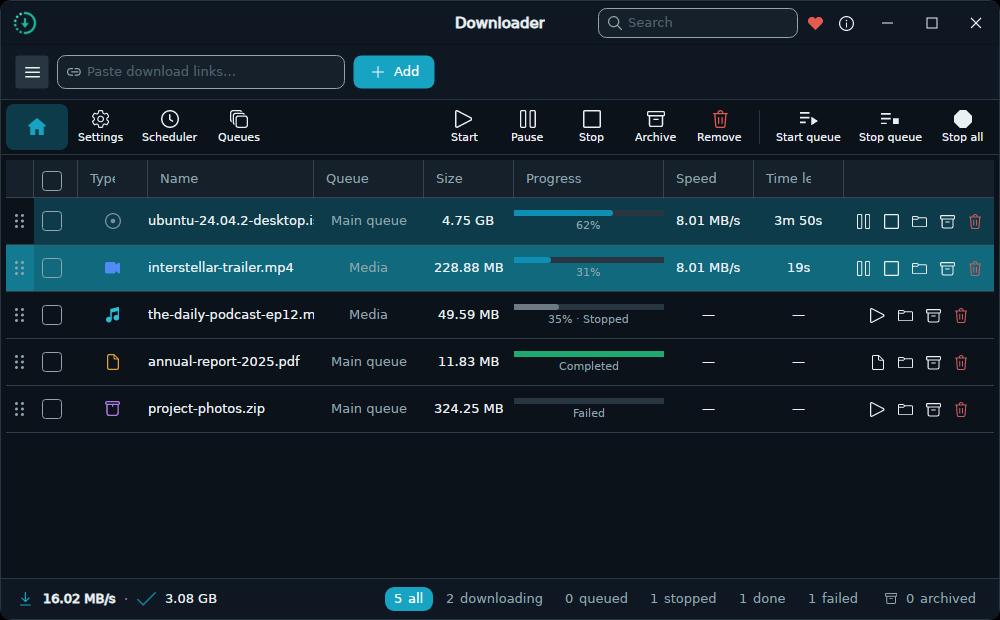
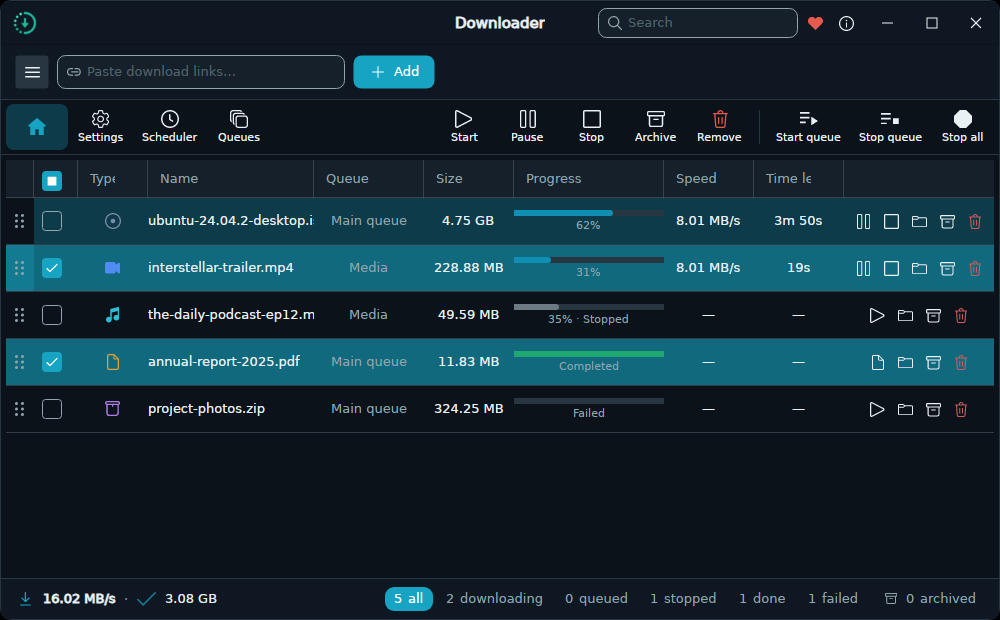
Row checkbox follows the grid selection (checkbox-follows-selection)
One selection state: grid click/Ctrl/Shift selection sets the checkboxes,
and a checkbox or select-all change updates the grid selection. Bulk
actions act on the checked visible rows; the separate grid-selection
list is removed. 6 new UI tests; screenshot shows two selected rows.

Claude-Session: https://claude.ai/code/session_012cPyH66pLd8XMmK513xxnp

Changed region(s): [[0.0, 0.521, 1.0, 0.6435], [0.031, 0.3984, 0.062, 0.4597], [0.031, 0.2758, 0.062, 0.3065]]

diff --git a/src/Downloader.Desktop.Tests/UI/DownloadsSelectionSyncTests.cs b/src/Downloader.Desktop.Tests/UI/DownloadsSelectionSyncTests.cs
@@ -1,0 +1,136 @@
+using System.Linq;
+using Avalonia.Controls;
+using Avalonia.Headless.XUnit;
+using Avalonia.VisualTree;
+using Downloader.Desktop.Models;
+using Downloader.Desktop.Services;
+using Downloader.Desktop.ViewModels;
+using Downloader.Desktop.Views;
+using Xunit;
+
+namespace Downloader.Desktop.Tests.UI;
+
+/// <summary>
+/// A row's checkbox IS its selection: the grid's selection (click / Ctrl+click / Shift+click) sets the
+/// checkboxes, and a checkbox or select-all change updates the grid. Headless cannot produce a real
+/// row click, so the grid's SelectedItem/SelectedItems stand in for the mouse.
+/// </summary>
+public class DownloadsSelectionSyncTests
+{
+    private static (DownloadManager manager, DownloadsViewModel page, DataGrid grid, DownloadItemViewModel[] rows) Host()
+    {
+        Localizer.Instance.Load("en");
+        var config = Config.New();
+        var manager = new DownloadManager();
+        manager.Initialize(config);
+        config.DefaultQueue.IsRunning = false;
+        var rows = new[] { "a.bin", "b.bin", "c.bin" }.Select(n =>
+        {
+            var vm = manager.Add(new DownloadItem { Url = "https://10.255.255.1/" + n, FileName = n }, autoStart: false);
+            vm.Status = DownloadStatus.Running;
+            return vm;
+        }).ToArray();
+        var page = new DownloadsViewModel(manager);
+        var view = new DownloadsView { DataContext = page };
+        new Window { Content = view, Width = 1100, Height = 600 }.Show();
+        DesktopLifetimeScope.Pump(8);
+        return (manager, page, view.GetVisualDescendants().OfType<DataGrid>().First(), rows);
+    }
+
+    [AvaloniaFact(Timeout = TestTimeouts.DefaultMs)]
+    public void Selecting_another_row_unchecks_the_previous_one()
+    {
+        var (_, _, grid, r) = Host();
+        r[0].IsChecked = true;
+
+        grid.SelectedItem = r[1]; // a plain click on B
+
+        Assert.False(r[0].IsChecked);
+        Assert.True(r[1].IsChecked);
+        Assert.Equal(new object[] { r[1] }, grid.SelectedItems.Cast<object>());
+    }
+
+    [AvaloniaFact(Timeout = TestTimeouts.DefaultMs)]
+    public void Adding_a_row_to_the_selection_keeps_both_checked()
+    {
+        var (_, _, grid, r) = Host();
+        grid.SelectedItem = r[0];
+
+        grid.SelectedItems.Add(r[1]); // Ctrl+click on B
+
+        Assert.True(r[0].IsChecked);
+        Assert.True(r[1].IsChecked);
+        Assert.False(r[2].IsChecked);
+    }
+
+    [AvaloniaFact(Timeout = TestTimeouts.DefaultMs)]
+    public void Checking_a_checkbox_adds_the_row_without_removing_others()
+    {
+        var (_, _, grid, r) = Host();
+        grid.SelectedItem = r[0];
+
+        r[1].IsChecked = true;
+
+        Assert.Contains(r[0], grid.SelectedItems.Cast<object>());
+        Assert.Contains(r[1], grid.SelectedItems.Cast<object>());
+        Assert.True(r[0].IsChecked);
+
+        r[1].IsChecked = false;
+        Assert.DoesNotContain(r[1], grid.SelectedItems.Cast<object>());
+        Assert.Contains(r[0], grid.SelectedItems.Cast<object>());
+    }
+
+    [AvaloniaFact(Timeout = TestTimeouts.DefaultMs)]
+    public void Select_all_selects_every_visible_row_and_clearing_empties_it()
+    {
+        var (_, page, grid, r) = Host();
+
+        page.SelectAllState = true;
+        Assert.Equal(3, grid.SelectedItems.Count);
+
+        page.SelectAllState = false;
+        Assert.Empty(grid.SelectedItems);
+        Assert.All(r, i => Assert.False(i.IsChecked));
+    }
+
+    [AvaloniaFact(Timeout = TestTimeouts.DefaultMs)]
+    public void A_filter_that_hides_a_selected_row_unselects_it_and_pause_touches_only_checked_rows()
+    {
+        var (_, page, grid, r) = Host();
+        grid.SelectedItem = r[0];
+        grid.SelectedItems.Add(r[1]);
+
+        r[1].Status = DownloadStatus.Failed;
+        page.Filter = StatusFilter.Active; // hides B
+        DesktopLifetimeScope.Pump();
+        page.Filter = StatusFilter.All;
+        DesktopLifetimeScope.Pump();
+
+        Assert.True(r[0].IsChecked);
+        Assert.False(r[1].IsChecked);
+
+        page.PauseSelectedCommand.Execute(null);
+        Assert.Equal(DownloadStatus.Paused, r[0].Status);
+        Assert.Equal(DownloadStatus.Running, r[2].Status);
+    }
+
+    [AvaloniaFact(Timeout = TestTimeouts.DefaultMs)]
+    public void Sorting_and_reordering_keep_the_selection_and_checkboxes_equal()
+    {
+        var (_, page, grid, r) = Host();
+        grid.SelectedItem = r[0];
+        grid.SelectedItems.Add(r[2]);
+
+        page.CycleSort("FileName");
+        DesktopLifetimeScope.Pump();
+        page.CycleSort("FileName");
+        DesktopLifetimeScope.Pump();
+        Assert.True(r[0].IsChecked);
+        Assert.True(r[2].IsChecked);
+
+        page.Reorder(r[0], r[2], placeAfter: true);
+        DesktopLifetimeScope.Pump();
+        var selected = grid.SelectedItems.Cast<DownloadItemViewModel>().ToHashSet();
+        Assert.All(r, i => Assert.Equal(i.IsChecked, selected.Contains(i)));
+    }
+}

diff --git a/src/Downloader.Desktop/Views/DownloadsView.axaml.cs b/src/Downloader.Desktop/Views/DownloadsView.axaml.cs
@@ -23,6 +23,7 @@ public partial class DownloadsView : UserControl
     private double _ghostLeft;
     private double _ghostGrabY;
     private bool _dragging;
+    private bool _syncing; // stops the checkbox <-> grid-selection sync from looping
 
     public DownloadsView()
     {
@@ -54,6 +55,8 @@ public partial class DownloadsView : UserControl
         {
             if (e.PropertyName == nameof(DownloadsViewModel.ShowQueue))
                 FitColumns();
+            else if (e.PropertyName == nameof(DownloadsViewModel.SelectAllState))
+                SyncGridFromChecks();
         };
     }
 
@@ -81,11 +84,34 @@ public partial class DownloadsView : UserControl
     private static double WidthOf(DataGridColumn column) =>
         column.Width.IsAbsolute ? column.Width.Value : column.MinWidth;
 
+    // The row checkbox IS the row's selection. The grid gives us click / Ctrl+click / Shift+click;
+    // its changes set the checkboxes, and a checkbox (or select-all) change updates the grid.
+
     private void OnSelectionChanged(object sender, SelectionChangedEventArgs e)
     {
-        // A highlighted row counts as "selected" for the toolbar, even when its checkbox is unchecked.
-        if (sender is DataGrid grid && DataContext is DownloadsViewModel vm)
-            vm.SetGridSelection(grid.SelectedItems);
+        if (_syncing)
+            return;
+        _syncing = true;
+        foreach (var item in e.RemovedItems.OfType<DownloadItemViewModel>())
+            item.IsChecked = false;
+        foreach (var item in e.AddedItems.OfType<DownloadItemViewModel>())
+            item.IsChecked = true;
+        _syncing = false;
+    }
+
+    /// <summary>Makes the grid's selection equal the checked rows, without touching the others.</summary>
+    private void SyncGridFromChecks()
+    {
+        if (_syncing || Root.ItemsSource is null)
+            return;
+        _syncing = true;
+        var selected = Root.SelectedItems;
+        foreach (var item in selected.OfType<DownloadItemViewModel>().Where(i => !i.IsChecked).ToList())
+            selected.Remove(item);
+        foreach (var item in Root.ItemsSource.OfType<DownloadItemViewModel>())
+            if (item.IsChecked && !selected.Contains(item))
+                selected.Add(item);
+        _syncing = false;
     }
 
     // --- Drag-to-reorder (grip handle in the first column) ---

diff --git a/src/Downloader.Desktop/ViewModels/DownloadsViewModel.cs b/src/Downloader.Desktop/ViewModels/DownloadsViewModel.cs
@@ -167,23 +167,8 @@ public class DownloadsViewModel : ViewModelBase
     /// <summary>Menu entries for "Stop queue ▾" — one per queue, each stopping all its items.</summary>
     public ObservableCollection<QueueActionTarget> StopQueueTargets { get; } = new();
 
-    // Rows highlighted in the DataGrid (independent of the checkboxes). Pushed in from the view's
-    // SelectionChanged so that simply selecting a row also counts as "selected" for the toolbar.
-    private readonly System.Collections.Generic.List<DownloadItemViewModel> _gridSelection = new();
-
-    /// <summary>Called by the view when the DataGrid's highlighted rows change.</summary>
-    public void SetGridSelection(System.Collections.IList items)
-    {
-        _gridSelection.Clear();
-        if (items != null)
-            foreach (var it in items)
-                if (it is DownloadItemViewModel vm)
-                    _gridSelection.Add(vm);
-        RaiseSelectionChanged();
-    }
-
     /// <summary>
-    /// The rows the toolbar acts on: checked or DataGrid-highlighted rows that are ALSO visible under
+    /// The rows the toolbar acts on: checked rows (the view keeps checkboxes and grid selection equal) that are ALSO visible under
     /// the active filters. The visibility clause matters — a filter can hide a row the user checked
     /// earlier, and removing or stopping a download nobody can see is the kind of surprise a Remove
     /// button must never spring.
@@ -191,9 +176,9 @@ public class DownloadsViewModel : ViewModelBase
     private System.Collections.Generic.List<DownloadItemViewModel> SelectedTargets() =>
         _manager == null
             ? new System.Collections.Generic.List<DownloadItemViewModel>()
-            : _manager.Items.Where(i => (i.IsChecked || _gridSelection.Contains(i)) && PassesView(i)).ToList();
+            : _manager.Items.Where(i => i.IsChecked && PassesView(i)).ToList();
 
-    /// <summary>True while at least one row is checked OR highlighted — drives the bulk buttons' enabled state.</summary>
+    /// <summary>True while at least one visible row is checked — drives the bulk buttons' enabled state.</summary>
     public bool HasSelection => SelectedTargets().Count > 0;
 
     /// <summary>

diff --git a/src/Downloader.Desktop.Tests/UI/PageViewModelTests.cs b/src/Downloader.Desktop.Tests/UI/PageViewModelTests.cs
@@ -17,8 +17,8 @@ namespace Downloader.Desktop.Tests.UI;
 /// setting overwrites the cap on next launch), and the Run/Pause switch must go through the manager's
 /// StartQueue/PauseQueue rather than flipping the flag directly.
 ///
-/// The Downloads page's bulk actions act on checked rows PLUS DataGrid-highlighted rows, which is why
-/// the grid-selection seam is exercised rather than only the checkboxes.
+/// The Downloads page's bulk actions act on the checked rows; the view keeps the grid selection equal
+/// to them (see DownloadsSelectionSyncTests).
 /// </summary>
 public class PageViewModelTests
 {
@@ -216,22 +216,6 @@ public class PageViewModelTests
 
         Assert.False(page.HasSelection);
         Assert.Equal(false, page.SelectAllState);
-    }
-
-    [AvaloniaFact(Timeout = TestTimeouts.DefaultMs)]
-    public void Highlighting_a_row_in_the_grid_counts_as_selecting_it()
-    {
-        var (manager, config) = Build();
-        var a = Add(manager, "a.bin", DownloadStatus.Running);
-        var page = new DownloadsViewModel(manager);
-
-        // A plain click highlights without checking the box; the toolbar must still act on it.
-        page.SetGridSelection(new[] { a });
-
-        Assert.True(page.HasSelection);
-
-        page.SetGridSelection(null);
-        Assert.False(page.HasSelection);
     }
 
     [AvaloniaFact(Timeout = TestTimeouts.DefaultMs)]

diff --git a/src/Downloader.Desktop.Tests/UI/AppTests.cs b/src/Downloader.Desktop.Tests/UI/AppTests.cs
@@ -1728,26 +1728,6 @@ public class AppTests
     }
 
     [AvaloniaFact(Timeout = TestTimeouts.DefaultMs)]
-    public void Grid_row_selection_enables_bulk_commands_without_checkboxes()
-    {
-        var manager = new DownloadManager();
-        manager.Initialize(Config.New());
-        var view = new DownloadsViewModel(manager);
-        var a = manager.Add(new DownloadItem { Url = "https://host/a.zip" }, autoStart: false);
-
-        Assert.False(view.HasSelection);
-
-        // Selecting (highlighting) a row in the DataGrid counts as selected — no checkbox needed (#3).
-        view.SetGridSelection(new System.Collections.Generic.List<object> { a });
-        Assert.True(view.HasSelection);
-        Assert.True(((System.Windows.Input.ICommand)view.StartSelectedCommand).CanExecute(null));
-        Assert.False(a.IsChecked); // the checkbox stays unchecked
-
-        view.SetGridSelection(null);
-        Assert.False(view.HasSelection);
-    }
-
-    [AvaloniaFact(Timeout = TestTimeouts.DefaultMs)]
     public void StartQueue_runs_remaining_stopped_and_failed_items()
     {
         var manager = new DownloadManager();

diff --git a/src/Downloader.Desktop.Tests/UI/CaptureScreenshots.cs b/src/Downloader.Desktop.Tests/UI/CaptureScreenshots.cs
@@ -155,7 +155,9 @@ public class CaptureScreenshots
         var grid = window.GetVisualDescendants().OfType<Avalonia.Controls.DataGrid>().FirstOrDefault();
         if (grid != null)
         {
+            // Two rows selected (click + Ctrl+click): their checkboxes follow the selection.
             grid.SelectedIndex = 1;
+            grid.SelectedItems.Add(grid.ItemsSource.Cast<object>().ElementAt(3));
             Save(window, "home-selected-dark.png");
             Application.Current!.RequestedThemeVariant = ThemeVariant.Light;
             Save(window, "home-selected-light.png");

diff --git a/openspec/changes/checkbox-follows-selection/tasks.md b/openspec/changes/checkbox-follows-selection/tasks.md
@@ -1,23 +1,23 @@
 ## 1. One selection state
 
-- [ ] 1.1 `DownloadsView`: on `SelectionChanged`, set `IsChecked` true/false for added/removed rows (guarded by `_syncing`)
-- [ ] 1.2 `DownloadsView`: when a row's `IsChecked` changes (checkbox or select-all), add/remove it in `grid.SelectedItems` without clearing others (guarded)
-- [ ] 1.3 Mark the checkbox press handled so a checkbox click does not also run the row click
-- [ ] 1.4 `DownloadsViewModel`: `SelectedTargets()` = `IsChecked && PassesView`; remove `_gridSelection` / `SetGridSelection`
-- [ ] 1.5 Confirm `IsChecked` is not persisted (keep it transient)
+- [x] 1.1 `DownloadsView`: on `SelectionChanged`, set `IsChecked` true/false for added/removed rows (guarded by `_syncing`)
+- [x] 1.2 `DownloadsView`: when a row's `IsChecked` changes (checkbox or select-all), add/remove it in `grid.SelectedItems` without clearing others (guarded)
+- [x] 1.3 Mark the checkbox press handled so a checkbox click does not also run the row click — no code needed: the CheckBox already marks its press handled
+- [x] 1.4 `DownloadsViewModel`: `SelectedTargets()` = `IsChecked && PassesView`; remove `_gridSelection` / `SetGridSelection`
+- [x] 1.5 Confirm `IsChecked` is not persisted (keep it transient) — confirmed: it lives only on the row VM
 
 ## 2. Tests (must fail on the old code)
 
-- [ ] 2.1 Selecting row B in the grid after A unchecks A (old code leaves A checked)
-- [ ] 2.2 Adding B to `SelectedItems` while A is selected keeps both checked
-- [ ] 2.3 Checking a checkbox adds the row to `SelectedItems` without removing others
-- [ ] 2.4 Select-all selects every visible row in the grid; clearing it empties the selection
-- [ ] 2.5 A filter that hides a selected row unchecks it; bulk Pause touches only the checked rows
-- [ ] 2.6 Sorting with two rows selected keeps both checked; a drag-reorder keeps a sane selection
-- [ ] 2.7 Update/remove the existing tests that relied on `SetGridSelection` ("checked OR highlighted")
+- [x] 2.1 Selecting row B in the grid after A unchecks A (old code leaves A checked)
+- [x] 2.2 Adding B to `SelectedItems` while A is selected keeps both checked
+- [x] 2.3 Checking a checkbox adds the row to `SelectedItems` without removing others
+- [x] 2.4 Select-all selects every visible row in the grid; clearing it empties the selection
+- [x] 2.5 A filter that hides a selected row unchecks it; bulk Pause touches only the checked rows
+- [x] 2.6 Sorting with two rows selected keeps both checked; a drag-reorder keeps a sane selection
+- [x] 2.7 Update/remove the existing tests that relied on `SetGridSelection` ("checked OR highlighted")
 
 ## 3. Finish
 
-- [ ] 3.1 Full solution `-t:Rebuild` → 0 warnings; `dotnet test` green
-- [ ] 3.2 Screenshot: add a capture with two rows selected (programmatic `SelectedItems`), light + dark; view the PNGs before committing
-- [ ] 3.3 Commit + push to `develop`
+- [x] 3.1 Full solution `-t:Rebuild` → 0 warnings; `dotnet test` green
+- [x] 3.2 Screenshot: add a capture with two rows selected (programmatic `SelectedItems`), light + dark; view the PNGs before committing
+- [x] 3.3 Commit + push to `develop`
